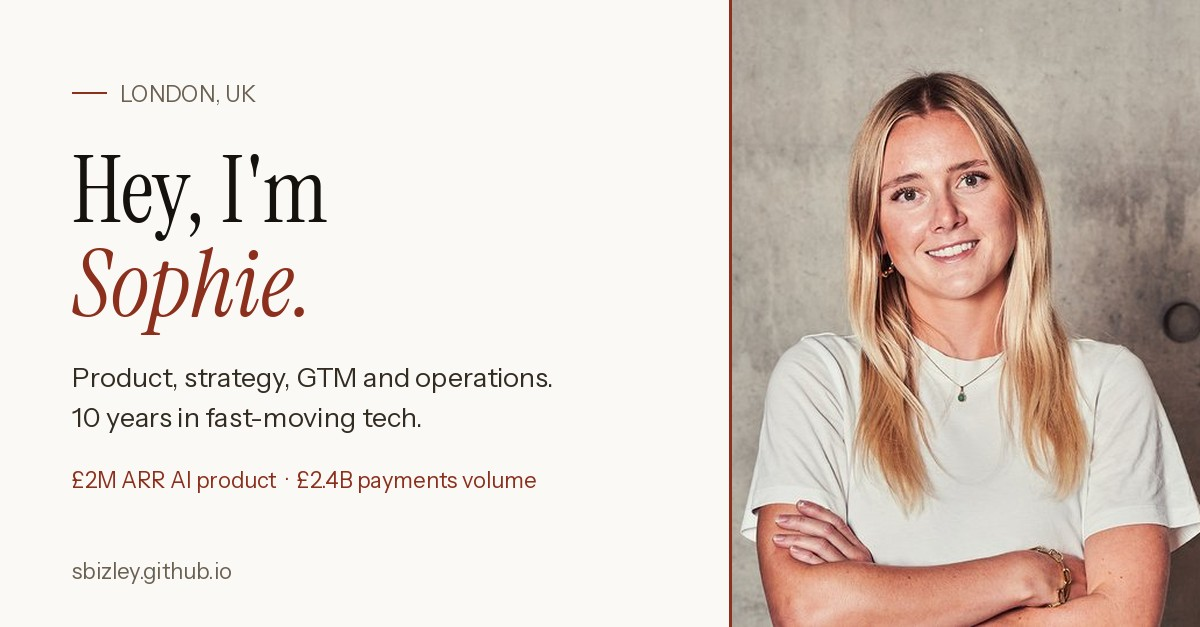
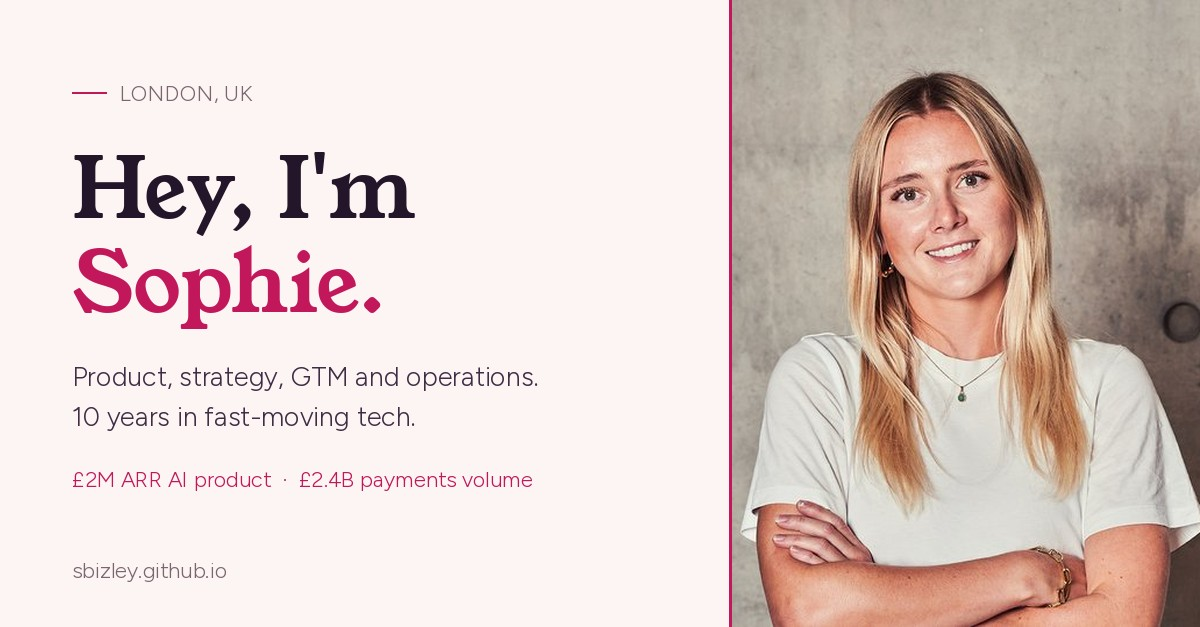
Plum rebrand and homepage copy rewrite

diff --git a/index.html b/index.html
@@ -30,6 +30,7 @@
     <a href="#path">Path</a>
     <a href="#build">Now</a>
     <a href="#beyond">Beyond</a>
+    <a href="#off-record">Off the record</a>
     <a href="mailto:sophierbizley@gmail.com" class="contact">Contact</a>
     <a href="Sophie-Bizley-CV.pdf" download class="cv">CV <span style="font-size:14px;line-height:1">↓</span></a>
   </div>
@@ -47,10 +48,9 @@
   <div class="hero-grid">
     <div>
       <div class="hero-lede" data-reveal data-reveal-delay="160">
-        <p>I like figuring out messy problems, getting people who don&#39;t naturally work together pulling in the same direction, and turning good ideas into things that actually happen.</p>
-        <p>I&#39;ve spent the last 10 years working across product, strategy, go-to-market and operations, mostly in fast-moving tech companies where there&#39;s usually more to do than people to do it.</p>
-        <p>These days, I&#39;m particularly interested in what AI makes possible: better ways of working, fewer pointless tasks, and giving small teams a bit more leverage. I write about that, and the realities of working in tech, on <a href="https://substack.com/@techwithsoph" target="_blank" rel="noopener">Substack</a>.</p>
-        <p>I&#39;m now exploring what&#39;s next: Chief of Staff and operator roles at ambitious seed to Series B startups.</p>
+        <p>I&#39;ve spent the last decade working across product, strategy, go-to-market and operations in fast-moving tech and ecom businesses. I&#39;m happiest somewhere in the middle of it all: getting close to customers, working out what actually matters, and turning ideas into products people actually use.</p>
+        <p>I&#39;m increasingly interested in what AI can make possible too: fewer pointless tasks, better ways of working, and giving small teams more leverage. I write about practical AI and the realities of working in tech on <a href="https://substack.com/@techwithsoph" target="_blank" rel="noopener">Substack</a>.</p>
+        <p>I&#39;m now looking for what&#39;s next: ideally a small team with a big problem, and people I can learn a lot from. Think Chief of Staff, operator or founding product roles at ambitious startups.</p>
       </div>
       <div class="hero-cta" data-reveal data-reveal-delay="240">
         <a href="mailto:sophierbizley@gmail.com" class="btn btn-solid">sophierbizley@gmail.com</a>
@@ -70,20 +70,20 @@
   <div class="two-col">
     <div data-reveal>
       <div class="about-kicker">A bit about me</div>
-      <h2 class="about-title">I&#39;m happiest when I&#39;m the one getting everyone pulling in the same direction.</h2>
+      <h2 class="about-title">The short version.</h2>
     </div>
     <div class="about-list" data-reveal data-reveal-delay="100">
       <div class="about-row">
         <span class="k">Where I&#39;ve been</span>
-        <p>Nearly a decade across Waitrose, John Lewis and Dojo. I joined Dojo at under 100 people and stayed through its scale-up years, building payments and AI products from nothing. The full version is in <a href="Sophie-Bizley-CV.pdf" download class="inline-link">my CV</a>.</p>
+        <p>Waitrose, John Lewis and Dojo, always working on early-stage concepts and products. I joined Dojo in its infancy and grew with it through its scale-up years, building payments products from nothing.</p>
       </div>
       <div class="about-row">
         <span class="k">What I&#39;m like</span>
-        <p>Equally at home with a customer, an engineer or a founder. I&#39;d rather make something happen than write a plan about it.</p>
+        <p>Equally at home with a customer, an engineer or a founder. I just want to solve important problems.</p>
       </div>
       <div class="about-row">
         <span class="k">What I care about</span>
-        <p>Getting AI into the hands of people who&#39;ve been told it isn&#39;t for them. And teams where women in tech get championed, not just hired.</p>
+        <p>Getting AI into the hands of people who&#39;ve been told it isn&#39;t for them, especially non-technical people. And being on a team where women in tech get championed.</p>
       </div>
       <div class="about-row">
         <span class="k">What&#39;s next</span>
@@ -129,6 +129,7 @@
   </div>
 </section>
 
+<!-- HOW I LIKE TO WORK: removed for now, Soph adding back the automation stat later
 <section id="approach" class="approach-section">
   <div class="wrap">
     <div class="kicker" data-reveal>How I like to work</div>
@@ -153,6 +154,7 @@
     </div>
   </div>
 </section>
+-->
 
 <section id="path" class="wrap path-section">
   <h2 data-reveal>The path so far.</h2>
@@ -163,7 +165,7 @@
       <div class="role-date">2026–Now</div>
       <div>
         <div class="role-title">Creator</div>
-        <div class="role-desc">I kept meeting smart, capable people who&#39;d decided AI just wasn&#39;t for them. So I spoke to 80+ of them about what&#39;s getting in the way, and started Tech with Soph. I write on Substack twice a week, build e-guides that help people learn AI, coach small business founders on where AI could help them, and test AI workflows with hospitality businesses.</div>
+        <div class="role-desc">I kept meeting smart, capable people who&#39;d decided AI just wasn&#39;t for them. So I spoke to 80+ of them about what&#39;s getting in the way, and started Tech with Soph. I write on Substack twice a week, make e-guides that help people learn AI, and I&#39;m building AI workflows other people can use to get more done.</div>
       </div>
       <div class="role-meta">
         <div class="role-company">Tech with Soph</div>
@@ -305,10 +307,10 @@
         <div class="build-body">
           <div class="build-kicker">AI · Tech · Writing</div>
           <div class="build-title">Tech with Soph</div>
-          <p>I kept meeting smart, capable people who&#39;d decided AI just wasn&#39;t for them. So I spoke to 80+ of them about what was getting in the way, and started writing. Now it&#39;s two posts a week, e-guides, and 1:1 coaching for small business founders.</p>
+          <p>I kept meeting smart, capable people who&#39;d decided AI just wasn&#39;t for them. So I spoke to 80+ of them about what was getting in the way, and started writing. Now it&#39;s a newsletter twice a week, e-guides on the main AI tools, and 1:1 AI coaching for small business founders.</p>
         </div>
         <div class="build-foot">
-          <span>2 posts a week</span><span>Substack ↗</span>
+          <span></span><span>Substack ↗</span>
         </div>
       </a>
     </div>
@@ -324,10 +326,10 @@
         <div class="beyond-body">
           <div class="beyond-kicker">Challenge · Europe</div>
           <div class="beyond-title">Red Bull Can You Make It?</div>
-          <p>Travelled Europe in one week with no money, no cards, no phone data. The only currency: cans of Red Bull. Navigate, barter and problem-solve across the continent.</p>
+          <p>Picked from tens of thousands of applicants. We travelled across Europe, hitting checkpoints along the way, with Red Bull as our only currency.</p>
         </div>
         <a href="https://www.redbull.com/gb-en/events/red-bull-can-you-make-it" target="_blank" rel="noopener" class="beyond-foot">
-          <span>No money · No plan · Just Red Bull</span><span>redbull.com ↗</span>
+          <span></span><span>redbull.com ↗</span>
         </a>
       </div>
       <div class="beyond-card accent" data-reveal data-reveal-delay="120">
@@ -335,7 +337,7 @@
         <div class="beyond-body">
           <div class="beyond-kicker">Endurance · 125 miles</div>
           <div class="beyond-title">Devizes to Westminster Canoe Race</div>
-          <p>One of the world's toughest canoe marathons: 125 miles through 77 locks, overnight, non-stop. A gruelling test of endurance, navigation and sheer bloody-mindedness.</p>
+          <p>One of the world&#39;s toughest canoe marathons: 125 miles through 77 locks. Came third in the mixed doubles.</p>
         </div>
         <a href="https://www.dwrace.co.uk/" target="_blank" rel="noopener" class="beyond-foot">
           <span>125 miles · 77 locks · non-stop</span><span>dwrace.co.uk ↗</span>
@@ -346,7 +348,7 @@
         <div class="beyond-body">
           <div class="beyond-kicker">Volunteering · Age UK</div>
           <div class="beyond-title">Digital Inclusion Programme</div>
-          <p>Digital Champion volunteer, teaching older people to use smartphones, video calls and online banking with confidence, one to one.</p>
+          <p>Digital Champion volunteer, teaching older people how to navigate technology.</p>
         </div>
         <a href="https://www.ageuk.org.uk/our-impact/programmes/digital-skills/digital-champions/" target="_blank" rel="noopener" class="beyond-foot">
           <span>Digital Champion · one to one</span><span>ageuk.org.uk ↗</span>
@@ -356,35 +358,16 @@
   </div>
 </section>
 
-<!-- OFF THE RECORD: hidden until rewritten in Soph's own words
 <section id="off-record" class="wrap about-section off-record">
   <div class="two-col">
     <div data-reveal>
-      <div class="about-kicker">Off the record</div>
-      <h2 class="about-title">The bits that don&#39;t fit on a CV.</h2>
-      <figure class="photo-slot" style="margin-top:28px"><span>Photo: something that feels like you</span></figure>
+      <h2 class="about-title">Off the record.</h2>
     </div>
-    <div class="about-list" data-reveal data-reveal-delay="100">
-      <div class="about-row">
-        <span class="k">Training</span>
-        <p>Lifting most days, Pilates when I&#39;m being kind to myself, and slowly turning into a runner. The hard bit is in my head, not my legs.</p>
-      </div>
-      <div class="about-row">
-        <span class="k">Money nerd</span>
-        <p>I love personal finance and investing, and will happily talk ISAs over coffee.</p>
-      </div>
-      <div class="about-row">
-        <span class="k">Weekends</span>
-        <p>Pottering in the garden and stopping to say hello to every dog I walk past.</p>
-      </div>
-      <div class="about-row">
-        <span class="k">Ask me about</span>
-        <p>Bartering my way across Europe with nothing but cans of Red Bull.</p>
-      </div>
+    <div data-reveal data-reveal-delay="100">
+      <p class="off-record-text">I love to travel, and took a sabbatical to go round South America. I&#39;m super into cooking and a proper London restaurant fiend. I&#39;m also really passionate about women in tech and finance. I share my opinions on Substack and I&#39;m part of the Present women in product community, because I want both industries to be far more accessible to women.</p>
     </div>
   </div>
 </section>
--->
 
 <footer class="wrap site-footer">
   <div class="footer-inner" data-reveal>

diff --git a/waitrose-ventures.html b/waitrose-ventures.html
@@ -103,7 +103,7 @@
       <p>Scaled the service to several hundred Waitrose customers. However, post-launch evaluation revealed significant operational friction. Real-world edge cases like pets, deep user trust barriers, and limited market readiness ultimately showed the proposition lacked a viable path to scale.</p>
       <div class="cs-outcome-grid" style="margin-top:6px;gap:20px">
         <div class="cs-outcome-stat" style="padding-top:12px"><div class="v" style="font-size:28px">100s</div><div class="l" style="margin-top:2px">customers reached</div></div>
-        <div class="cs-outcome-stat" style="padding-top:12px"><div class="v" style="font-size:28px;font-style:italic">Sunset</div><div class="l" style="margin-top:2px">decision, post-evaluation</div></div>
+        <div class="cs-outcome-stat" style="padding-top:12px"><div class="v" style="font-size:28px;font-style:normal">Sunset</div><div class="l" style="margin-top:2px">decision, post-evaluation</div></div>
       </div>
     </div>
     <ul class="cs-outcome-bullets" data-reveal data-reveal-delay="80">

diff --git a/style.css b/style.css
@@ -100,7 +100,6 @@ a:focus-visible,button:focus-visible{outline:2px solid var(--accent);outline-off
 .hero-grid{margin-top:26px;display:grid;grid-template-columns:1fr 300px;gap:56px;align-items:start}
 .hero-lede{font-size:19px;line-height:1.62;color:var(--ink-soft);max-width:580px}
 .hero-lede p + p{margin-top:14px}
-.hero-lede p:first-child{font-size:21px;color:var(--ink)}
 .hero-lede .num{font-family:var(--serif);color:var(--accent)}
 .hero-cta{margin-top:34px;display:flex;flex-wrap:wrap;gap:10px}
 
@@ -492,3 +491,4 @@ a.build-card:hover{transform:translateY(-4px)}
   .hero-grid > div:first-child{margin-top:0}
   .hero-photo{grid-column:auto;grid-row:auto}
 }
+.off-record-text{font-size:19px;line-height:1.65;color:var(--ink-soft);max-width:580px;margin:0}
